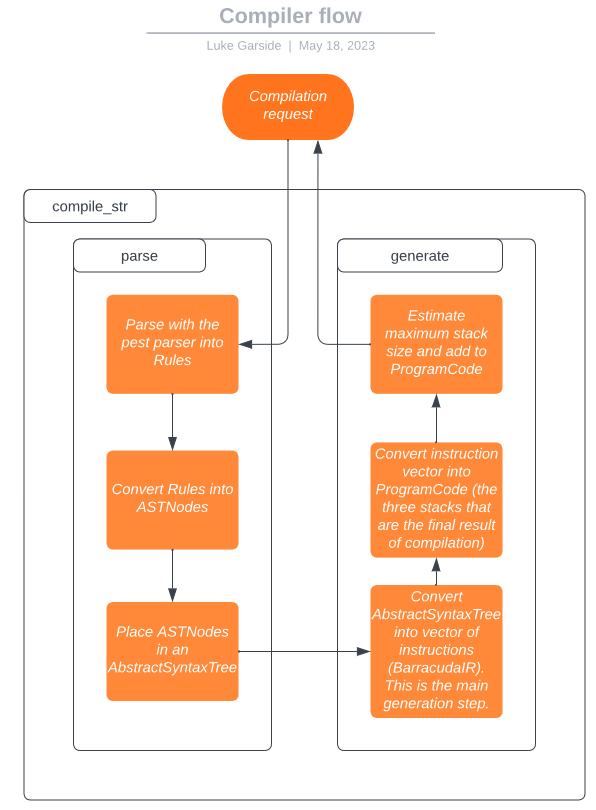
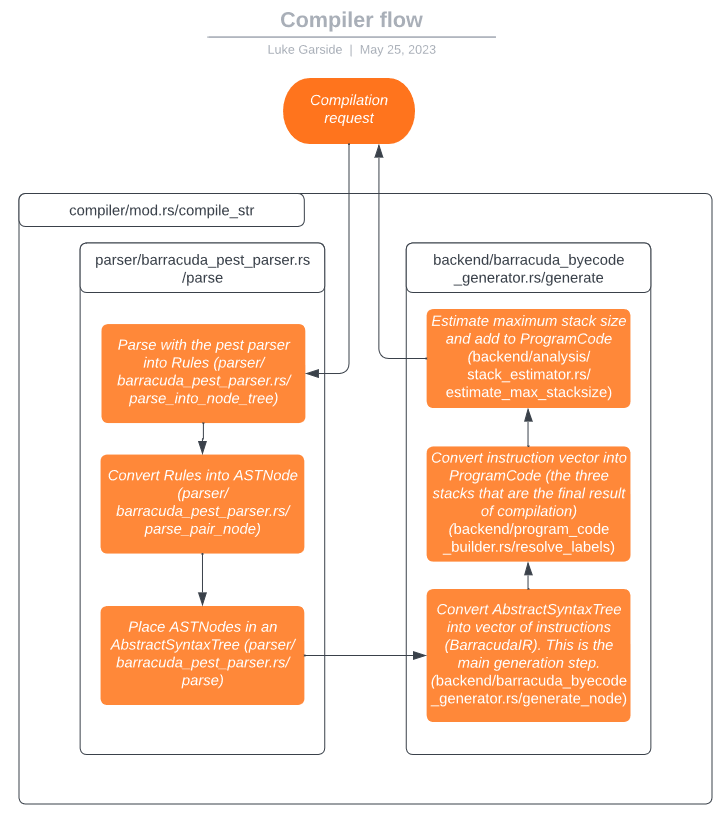
Added compiler flow diagram

Changed region(s): [[0.0, 0.0, 0.9966, 0.9877]]

diff --git a/ARCHITECTURE.md b/ARCHITECTURE.md
@@ -8,7 +8,7 @@ This repo is a rust workspace of three rust crates. These crates are barracuda c
 + **[Barracuda Compiler](#barracuda-compiler)**
 + **[Barracuda CPU VM](#barracuda-cpu-vm)**
 
-#Barracuda Common
+# Barracuda Common
 Barracuda common acts as a utility library for the compiler and cpu vm of shared code. 
 For instance the definitions of operators is used by both the compiler for generation 
 and by the cpu vm for context therefore it is stored in the common library. 
@@ -34,6 +34,8 @@ The compiler starts with two files `main.rs` for the binary target and `lib.rs` 
 the context for processing the cll as its configuration is small due to the use of the clap library. Lib contains the 
 translation interface functions using ffi so that they are exposed when compiling as a DLL and is used to generate c headers.
 The core of the compiler's functionality is stored within the compiler module. 
+
+See compiler_flow.png for the path of compilation.
 
 ### compiler
 The compiler `mod.rs` file contains the definition of `Compiler` which accepts two type definitions for the
